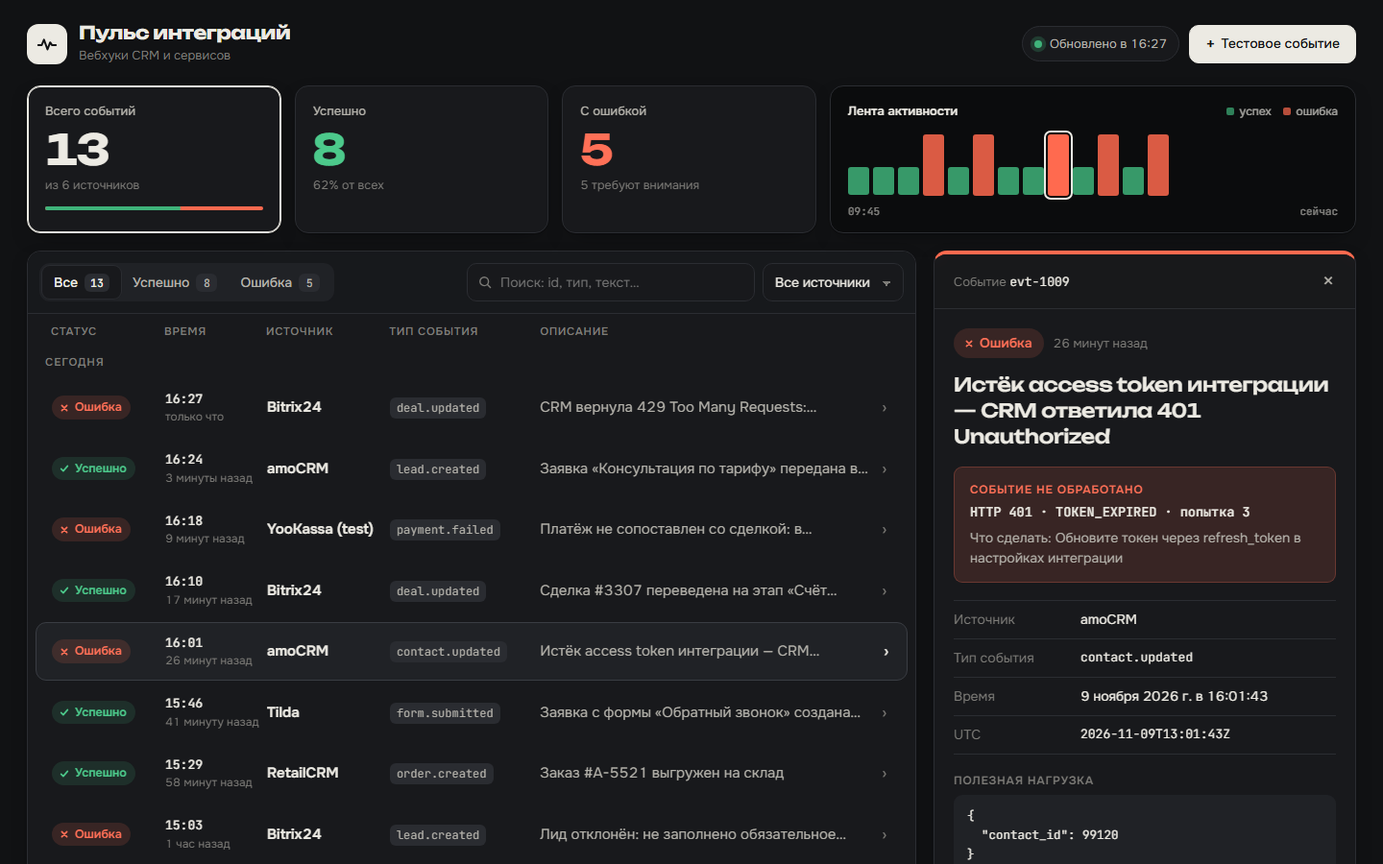
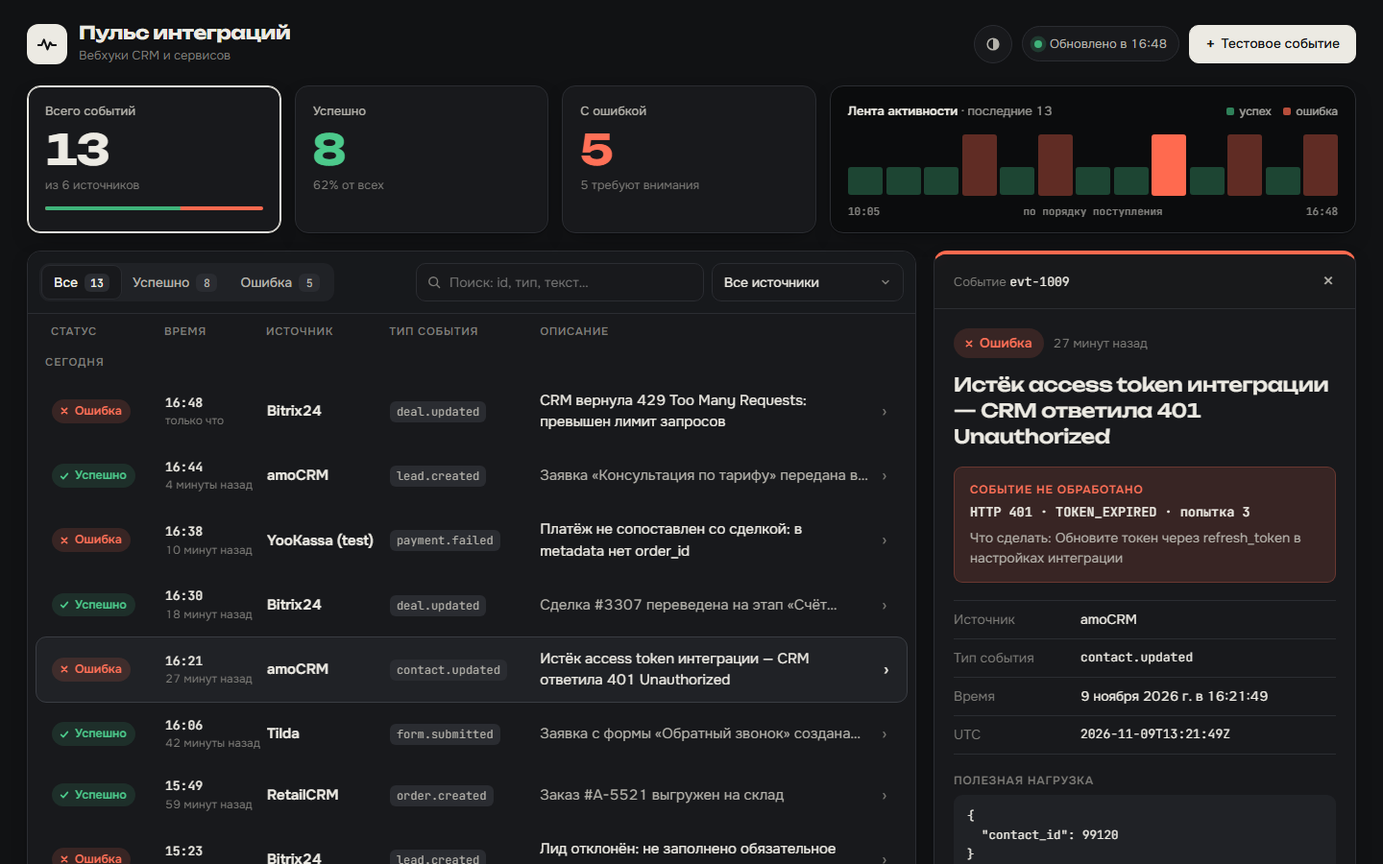
Simplify README, refresh screenshots

diff --git a/README.md b/README.md
@@ -1,82 +1,86 @@
 # Пульс интеграций
 
-Сервис мониторинга событий интеграций. Компания получает вебхуки от CRM и других систем, а сотрудник в одном окне видит, что прошло успешно, где ошибка и почему.
+Небольшой сервис для мониторинга вебхуков от CRM и других систем. Открываешь страницу и сразу видишь, сколько событий прошло, где ошибки и что именно сломалось в каждом случае.
 
 ![Десктоп: список событий и подробности ошибки](docs/desktop.png)
 
 <p>
-  <img src="docs/mobile.png" width="240" alt="Мобильная версия: список">
-  <img src="docs/mobile-detail.png" width="240" alt="Мобильная версия: подробности события">
-  <img src="docs/validation.png" width="420" alt="Ошибка валидации в форме тестового события">
+  <img src="docs/mobile.png" width="230" alt="Телефон: список событий">
+  <img src="docs/mobile-detail.png" width="230" alt="Телефон: подробности события">
+  <img src="docs/validation.png" width="420" alt="Ошибки валидации в форме">
 </p>
 
-## Запуск
+![Тёмная тема](docs/desktop-dark.png)
 
-Нужен Node.js 20.19+ (проверено на 22 и 26).
+## Как запустить
+
+Нужен Node.js 20.19 или новее (проверял на 22 и 26).
 
 ```bash
 npm install
 npm run dev
 ```
 
-- Интерфейс: http://localhost:5173
-- API: http://localhost:3001/api/events
+Интерфейс откроется на http://localhost:5173, API работает на http://localhost:3001/api/events.
 
-Production-сборка, где API и интерфейс работают на одном порту:
+Если нужен один порт для всего:
 
 ```bash
 npm run build
-npm start          # http://localhost:3001
+npm start        # http://localhost:3001
 ```
 
-Через Docker:
+Или через Docker:
 
 ```bash
 docker compose up --build   # http://localhost:3001
 ```
 
-Проверки:
+## Проверки
 
 ```bash
-npm test           # 21 тест API (vitest + supertest)
-npm run typecheck  # TypeScript
-npm run demo       # демонстрация API на запущенном сервере, см. ниже
+npm test             # 22 теста API (vitest + supertest)
+npm run test:e2e     # 18 браузерных тестов: десктоп и телефон (Playwright)
+npm run typecheck    # TypeScript
+npm run demo         # показывает успешный POST и ошибки валидации на запущенном сервере
 ```
+
+Перед первым `npm run test:e2e` нужно один раз скачать браузер: `npx playwright install chromium`. Тесты сами собирают проект и поднимают сервер на порту 3005.
 
 ## Стек
 
-| Часть | Технологии |
-|---|---|
-| Backend | Node.js, Express 5, zod 4 (валидация), запуск через tsx |
-| Frontend | React 19, Vite 8, TypeScript, чистый CSS: токены, container queries, светлая и тёмная темы |
-| Шрифты | Onest (текст), Unbounded (цифры и заголовки), JetBrains Mono (данные), все через @fontsource без CDN |
-| Тесты | vitest, supertest; Playwright для ручной проверки UI на десктопе и телефоне |
-| Хранение | В памяти процесса, 12 тестовых событий при старте |
+Сервер: Node.js, Express 5, zod 4 для валидации, запуск через tsx.
+Интерфейс: React 19, Vite 8, TypeScript и обычный CSS (переменные, container queries, светлая и тёмная тема). Без UI-библиотек.
+Шрифты: Onest для текста, Unbounded для цифр и заголовков, JetBrains Mono для данных. Подключены через @fontsource, без CDN.
+Тесты: vitest и supertest для API, Playwright для интерфейса.
+Данные хранятся в памяти. При старте загружаются 12 тестовых событий (8 успешных, 4 с ошибкой) от выдуманных интеграций.
 
-## Что реализовано
+## Что сделано
 
-**Интерфейс**
-- Статистика: всего, успешных, с ошибкой, доля успешных. Карточки кликабельны и работают как быстрый фильтр.
-- Лента активности: последние 40 событий в хронологическом порядке, ошибки выше и красные, клик по тику открывает событие.
-- Список событий: время (точное и относительное), источник, тип, статус, описание. Список сгруппирован по дням.
-- Фильтр по статусу «все / успешно / ошибка» со счётчиками, поиск по id, типу и тексту, фильтр по источнику.
-- Подробности события: на десктопе боковая панель, на телефоне полноэкранный экран с кнопкой «К списку». Для ошибок показываются HTTP-код, код ошибки, номер попытки и подсказка, что делать. Также видны полезная нагрузка вебхука, полный JSON и кнопка «Копировать cURL», чтобы повторить событие.
-- Форма «Тестовое событие»: отправляет `POST /api/events`, показывает серверные ошибки валидации у конкретных полей. Есть пресеты «Успешное / С ошибкой / Невалидное» и режим «Сырой JSON», чтобы проверить любое тело запроса.
-- Автообновление каждые 5 секунд, пока вкладка активна: событие, отправленное из curl или Postman, появляется само и коротко подсвечивается.
-- Фильтры и открытое событие хранятся в URL: ссылкой можно поделиться, перезагрузка ничего не теряет, системная кнопка «Назад» на телефоне закрывает подробности.
-- Клавиатура: ↑/↓ (или j/k) переключают события, Esc закрывает панель. Есть skip-link, видимый фокус, `aria-live` для уведомлений, учтён `prefers-reduced-motion`.
-- Адаптивность: от 360 px до широких экранов. Список сам переключается между таблицей и карточками по ширине своего контейнера, а не окна.
-- Состояния: загрузка (скелетон), пустой результат с кнопкой сброса фильтров, API недоступен (с кнопкой повтора), событие по ссылке не найдено.
+Интерфейс:
 
-**Серверная часть**
-- `GET /api/events`: список, новые сверху. Необязательные параметры: `?status=success|error`, `?source=amoCRM`, `?limit=50`.
-- `GET /api/events/:id`: одно событие.
-- `POST /api/events`: валидирует и добавляет событие, отвечает `201` и заголовком `Location`.
-- 12 тестовых событий (8 успешных, 4 с ошибкой) от вымышленных интеграций amoCRM, Bitrix24, RetailCRM, Tilda, YooKassa (test), Telegram Bot. Время событий отсчитывается от запуска сервера, поэтому лента всегда выглядит свежей.
+- Статистика: всего, успешно, с ошибкой и доля успешных. По клику на карточку включается соответствующий фильтр.
+- Лента активности: последние события цветными столбиками, ошибки выше и красные. Клик по столбику открывает событие.
+- Список событий с временем (точным и «5 минут назад»), источником, типом, статусом и описанием. События сгруппированы по дням. У ошибок причина видна в две строки, чтобы её не приходилось открывать.
+- Фильтр «Все / Успешно / Ошибка» со счётчиками, поиск по id, источнику, типу и тексту, выпадающий список источников с количеством событий и ошибок.
+- Подробности события. На компьютере это панель справа, на планшете выезжающая панель, на телефоне отдельный экран с кнопкой «К списку». У ошибки показаны HTTP-код, код ошибки, номер попытки и подсказка, что делать. Ниже payload вебхука, полный JSON и кнопка «Копировать cURL», чтобы повторить запрос.
+- Форма тестового события отправляет `POST /api/events`. Ошибки от сервера появляются под нужными полями. Есть готовые варианты «Успешное», «С ошибкой», «Невалидное» и режим «Сырой JSON» для любых проверок.
+- Список обновляется сам каждые 5 секунд, пока вкладка открыта. Событие, отправленное через curl или Postman, появляется без перезагрузки и ненадолго подсвечивается.
+- Фильтры и открытое событие сохраняются в адресе страницы. Ссылку можно отправить коллеге, после перезагрузки ничего не теряется, а кнопка «Назад» на телефоне закрывает подробности.
+- Клавиатура: j/k и стрелки переключают события, Esc закрывает подробности. Есть ссылка «к списку событий» для перехода с клавиатуры, видимый фокус и поддержка `prefers-reduced-motion`.
+- Светлая и тёмная тема. По умолчанию берётся системная, кнопкой в шапке можно выбрать вручную, выбор запоминается.
+- Вёрстка проверена от 360 px до широких экранов. Список сам переключается между таблицей и карточками в зависимости от доступной ширины.
+- Состояния загрузки, пустого результата, недоступного API и «событие по ссылке не найдено» тоже оформлены.
+
+Сервер:
+
+- `GET /api/events` отдаёт список, новые сверху. Можно фильтровать: `?status=error`, `?source=amoCRM`, `?limit=50`.
+- `GET /api/events/:id` отдаёт одно событие.
+- `POST /api/events` проверяет событие и добавляет его. Отвечает `201` и заголовком `Location`.
 
 ## API
 
-Структура события:
+Событие выглядит так:
 
 ```json
 {
@@ -92,19 +96,19 @@ npm run demo       # демонстрация API на запущенном се
 
 Правила для `POST /api/events`:
 
-| Поле | Обязательное | Правило |
+| Поле | Обязательно | Правило |
 |---|---|---|
-| `source` | да | непустая строка, до 64 символов |
-| `type` | да | непустая строка, до 64 символов |
+| `source` | да | непустая строка до 64 символов |
+| `type` | да | непустая строка до 64 символов |
 | `status` | да | `success` или `error` |
-| `message` | да | непустая строка, до 500 символов. Для ошибки здесь пишется причина |
-| `id` | нет | если не передан, сервер генерирует `evt-NNNN`. Латиница, цифры, `._-`, до 64 символов. Повтор существующего id даёт `409` |
-| `created_at` | нет | ISO 8601 с часовым поясом. Если не передан, ставится текущее время. Сервер приводит время к UTC |
-| `details` | нет | объект с любым контекстом: HTTP-код, payload, попытка и т. п. |
+| `message` | да | до 500 символов. Если статус `error`, здесь пишется причина, не короче 10 символов |
+| `id` | нет | если не передать, сервер создаст `evt-NNNN`. Латиница, цифры и `._-`, до 64 символов. Повторный id вернёт `409` |
+| `created_at` | нет | дата ISO 8601 с часовым поясом, по умолчанию текущее время. Сервер переводит её в UTC. Даты раньше 2000 года и позже чем через сутки не принимаются |
+| `details` | нет | объект с любыми подробностями: HTTP-код, payload, номер попытки |
 
-Неизвестные поля отклоняются: опечатка вроде `staus` вернёт ошибку, а не превратится молча в событие без статуса. Строки обрезаются по краям, так что строка из одних пробелов считается пустой.
+Лишние поля не принимаются. Если опечататься и написать `staus`, сервер вернёт ошибку, а не сохранит событие без статуса. Пробелы по краям строк обрезаются, поэтому строка из одних пробелов считается пустой.
 
-Коды ответов: `201` создано, `400` ошибка валидации или невалидный JSON, `409` дубликат id, `413` тело больше 64 КБ, `415` не JSON. Формат ошибки всегда одинаковый:
+Коды ответов: `201` событие создано, `400` ошибка валидации или битый JSON, `409` такой id уже есть, `413` тело больше 64 КБ, `415` тело не в JSON. Ошибки всегда приходят в одном формате:
 
 ```json
 {
@@ -114,12 +118,11 @@ npm run demo       # демонстрация API на запущенном се
 }
 ```
 
-### Демонстрация: успешный POST и ошибка валидации
+### Пример: успешный запрос и ошибка валидации
 
-`npm run demo` при запущенном сервере выполняет запросы и проверяет результат. Он кроссплатформенный, в отличие от curl с кавычками в PowerShell. То же самое через curl:
+Проще всего запустить `npm run demo`, пока работает сервер. Скрипт работает одинаково на Windows, macOS и Linux. То же самое через curl:
 
 ```bash
-# Успешный запрос → 201
 curl -i -X POST http://localhost:3001/api/events \
   -H "Content-Type: application/json" \
   -d '{"source":"amoCRM","type":"lead.created","status":"success","message":"Заявка успешно передана"}'
@@ -133,7 +136,6 @@ Location: /api/events/evt-1013
 ```
 
 ```bash
-# Нет обязательных полей и неверный статус → 400, событие не добавлено
 curl -i -X POST http://localhost:3001/api/events \
   -H "Content-Type: application/json" \
   -d '{"source":"Bitrix24","status":"pending"}'
@@ -148,52 +150,64 @@ HTTP/1.1 400 Bad Request
   {"field":"message","message":"Поле «message» обязательно"}]}
 ```
 
-Из интерфейса: «+ Тестовое событие» → пресет «Невалидное» → «Отправить». Ошибки сервера появятся под полями. Затем пресет «С ошибкой» → «Отправить»: событие появится первым в списке и сразу откроется.
+Через интерфейс: «+ Тестовое событие», затем «Невалидное» и «Отправить». Под полями появятся ошибки от сервера. Потом «С ошибкой» и «Отправить»: событие встанет первым в списке и сразу откроется.
 
 ## Допущения
 
-- `id` и `created_at` в POST необязательны: в реальном приёмнике вебхуков их обычно выставляет сервер. Если их передать, сервер их проверит и сохранит.
-- Обязательными считаются `source`, `type`, `status`, `message`: без них событие нельзя показать в списке.
-- Статистика в карточках считается по всем событиям. Счётчики во вкладках фильтра учитывают выбранный источник и поиск, поэтому всегда совпадают с тем, что видно в списке.
-- Данные хранятся в памяти (ТЗ это допускает) и сбрасываются при перезапуске. Хранилище ограничено 1000 событиями, при переполнении удаляются самые старые.
-- Обновление сделано поллингом раз в 5 секунд. Для прототипа это проще и надёжнее, чем SSE или WebSocket, и достаточно для сценария «отправил curl, увидел событие».
+- `id` и `created_at` в POST необязательны. В настоящем приёмнике вебхуков их обычно ставит сервер. Если их передать, сервер проверит и сохранит их.
+- Обязательные поля: `source`, `type`, `status` и `message`. Без них событие нельзя нормально показать в списке.
+- Карточки статистики считают все события. Счётчики на вкладках фильтра учитывают выбранный источник и поиск, поэтому совпадают с тем, что видно в списке.
+- Если фильтр прячет открытое событие, подробности закрываются, чтобы панель не показывала то, чего нет в списке.
+- Данные живут в памяти и сбрасываются при перезапуске, ТЗ это разрешает. В хранилище помещается до 1000 событий, при переполнении удаляются самые старые.
+- Список обновляется опросом раз в 5 секунд. Для прототипа это проще SSE или WebSocket, а сценарий «отправил curl и увидел событие» работает.
 
-## Ограничения и что не сделано
+## Ограничения
 
-- Нет постоянного хранилища: после перезапуска остаются только начальные 12 событий.
-- Нет пагинации и виртуализации списка. Для прототипа это не нужно, а API уже поддерживает `limit`.
-- UI проверялся Playwright-скриптом вручную (сценарии, десктоп, планшет, 390 и 360 px, тёмная тема). Автоматических e2e-тестов в репозитории нет, автотесты покрывают только API.
-- Авторизации нет, как и сказано в ТЗ.
+- Нет постоянного хранилища. После перезапуска остаются только 12 стартовых событий.
+- Нет пагинации и виртуализации списка. Для прототипа не нужно, но API уже понимает `limit`.
+- Нет авторизации, её не требовалось.
+- Браузерные тесты проверяют основные сценарии, но не каждую мелочь интерфейса. Внешний вид дополнительно проверялся по скриншотам.
 
 ## Структура проекта
 
 ```
 server/
-  app.ts        маршруты API, обработка ошибок, раздача собранного фронтенда
-  schema.ts     схема валидации события (zod) и понятные сообщения об ошибках
-  store.ts      хранилище в памяти: сортировка, фильтры, генерация id, лимит
-  seed.ts       12 тестовых событий
-  index.ts      точка входа
-shared/types.ts единый контракт события для сервера и клиента
+  app.ts          маршруты API, обработка ошибок, раздача собранного фронтенда
+  schema.ts       правила валидации (zod) и сообщения об ошибках
+  store.ts        хранилище в памяти: сортировка, фильтры, id, лимит
+  seed.ts         12 тестовых событий
+  index.ts        точка входа
+shared/types.ts   общий тип события для сервера и интерфейса
 src/
-  App.tsx       композиция экрана, фильтрация, клавиатура
-  useEvents.ts  загрузка, поллинг, подсветка новых событий
-  useUrlState.ts состояние фильтров и выбранного события в URL
-  components/   StatsPanel, Toolbar, EventList, EventDetail, NewEventDialog, StatusBadge
-  styles.css    дизайн-токены, темы, адаптивная раскладка
-tests/api.test.ts  тесты API
-scripts/demo.mjs   демонстрация API
+  App.tsx         экран целиком, фильтрация, клавиатура
+  useEvents.ts    загрузка, автообновление, подсветка новых событий
+  useUrlState.ts  фильтры и открытое событие в адресе страницы
+  components/     StatsPanel, Toolbar, SourceSelect, EventList, EventDetail, NewEventDialog, StatusBadge
+  styles.css      цвета, темы, адаптивная вёрстка
+tests/            тесты API
+e2e/              браузерные тесты
+scripts/demo.mjs  демонстрация API
 ```
 
-## Как использовался AI
+## Как я использовал AI
 
-Основной инструмент — Claude Code (CLI). Я использовал его как исполнителя с чёткими постановками, а решения принимал сам:
+Работал в Claude Code. Код писал он по моим постановкам, а решения и проверку я держал за собой.
 
-- **Сам решал:** стек (один репозиторий, Express и Vite, без Next.js, чтобы проверяющему хватило одной команды), контракт события и правила валидации (какие поля обязательны, строгий отказ на неизвестные поля, приведение времени к UTC, 409 на дубликат), раскладку и визуальное направление «диспетчерский журнал», а также что считать за рамками прототипа.
-- **Делегировал:** написание кода по этим решениям, тесты API, стили по заданным токенам, демо-скрипт.
-- **Проверял:** тесты и typecheck после каждого этапа, Playwright-прогон всех сценариев на десктопе и телефоне со скриншотами, сборку и запуск в Docker. Отдельно прогнал интерфейс через чек-лист Web Interface Guidelines и детектор дизайн-антипаттернов. По их итогам убрал декоративную сетку фона и цветные полосы на карточках, добавил фокус на первое поле с ошибкой, `scroll-margin` под sticky-тулбаром и явные цвета для `select` в тёмной теме Windows. Потом независимое ревью кода второй моделью.
-- **Что поймал при проверке:** после смены фильтра при открытом событии Esc возвращал старые фильтры (шаг назад по истории). Теперь возврат по истории происходит только тогда, когда предыдущая запись совпадает с текущим списком. На мобильном шапка перекрывала название, это исправлено после скриншота на 360 px. Ревью нашло гонку: опоздавший ответ поллинга мог на несколько секунд стереть только что добавленное событие. Теперь устаревшие ответы отбрасываются по номеру запроса. Ещё по итогам ревью: пустой POST отвечает 400 со списком недостающих полей, а не 415, при переполнении хранилища не вытесняется только что принятое событие, а даты из далёкого будущего отклоняются, чтобы они не «застревали» вверху ленты.
+Что решал сам. Стек: один репозиторий с Express и Vite, чтобы проверяющему хватило одной команды. Формат события и правила валидации: какие поля обязательны, почему лишние поля отклоняются, приведение времени к UTC, 409 на повторный id, минимальная длина причины для ошибки. Устройство экрана и визуальный стиль «диспетчерского журнала». Что оставить за рамками прототипа.
 
-## Наиболее удачное решение
+Что отдавал AI. Код по этим решениям, тесты, стили по заданным цветам и шрифтам, демо-скрипт.
 
-Ошибки валидации приходят с сервера в виде списка полей, и форма в интерфейсе раскладывает их по полям. Поэтому правило валидации существует в одном месте — zod-схеме на сервере. Интерфейс не дублирует проверки, а любой клиент (curl, CRM, форма) получает одинаковый понятный ответ, включая опечатки в именах полей. Второе удачное решение — фильтры и открытое событие хранятся в URL: ссылку на конкретную ошибку можно сразу отправить коллеге, а на телефоне привычный жест «Назад» закрывает подробности.
+Как проверял. После каждого этапа запускал тесты и проверку типов. Сценарии прогонял в браузере через Playwright на компьютере, планшете и телефоне и смотрел скриншоты. Собирал и запускал проект в Docker и из чистого клона. Интерфейс прогнал по чек-листу Web Interface Guidelines и через детектор типичных шаблонов сгенерированного дизайна. После этого убрал декоративную сетку на фоне и цветные полоски на карточках, заменил системный выпадающий список и синюю обводку фокуса на свои. Код отдельно посмотрели два независимых ревьюера: один искал баги, второй оценивал работу как проверяющий по критериям ТЗ.
+
+Что нашлось при проверке:
+- Если поменять фильтр при открытом событии, Esc возвращал старые фильтры. Теперь шаг назад по истории делается, только если предыдущая запись совпадает с текущим списком.
+- Опоздавший ответ автообновления мог на несколько секунд стереть только что добавленное событие. Теперь устаревшие ответы отбрасываются по номеру запроса.
+- Пустой POST отвечал 415 вместо 400 со списком недостающих полей.
+- При заполненном хранилище могло вытесниться только что принятое событие.
+- Дата из далёкого будущего навсегда застревала вверху ленты.
+- Длинное слово без пробелов растягивало панель подробностей на телефоне.
+- На планшете таблица была слишком тесной. Теперь там карточки и выезжающая панель.
+
+## Самое удачное решение
+
+Правила валидации описаны в одном месте, в схеме на сервере. Ошибки возвращаются списком по полям, и форма просто раскладывает их под нужными полями. Интерфейс не дублирует проверки, а curl, CRM и форма получают одинаковый понятный ответ, даже если ошиблись в имени поля. Ещё мне нравится, что фильтры и открытое событие живут в адресе страницы: ссылку на конкретную ошибку можно сразу отправить коллеге, а на телефоне привычный жест «Назад» закрывает подробности.
